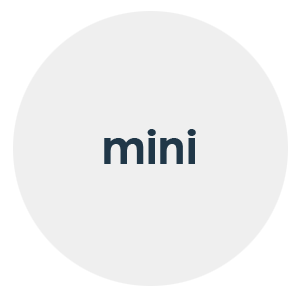
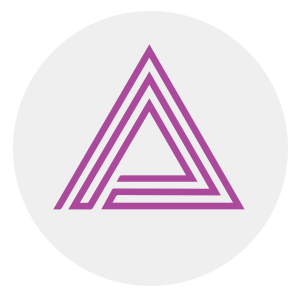
first commit personal website andrealmar.com

Changed region(s): [[0.18, 0.15, 0.81, 0.72]]

diff --git a/index.html b/index.html
@@ -2,9 +2,9 @@
     <html lang="en">
     <head>
     <meta charset="utf-8">
-    <title>SINGLE PAGE | Flat Design Mini Portfolio</title>
+    <title>André Almar | Personal Website</title>
     <meta name="viewport" content="width=device-width, initial-scale=1.0">
-    <meta name="description" content="Flat Design Mini Portfolio">
+    <meta name="description" content="André Almar | Personal Website">
     <meta name="keywords" content="responsive, bootstrap, flat design, flat ui, portfolio">
     <meta name="author" content="Dzyngiri">
     <meta name="description" content="This is a responsive flat design mini portfolio for creative folks who want to showcase their work online.">
@@ -39,11 +39,11 @@
     <body>
     <div class="navbar navbar-fixed-top">
       <div class="navbar-inner">
-        <div class="container"> <a class="btn btn-navbar" data-toggle="collapse" data-target=".nav-collapse"> <span class="icon-bar"></span> <span class="icon-bar"></span> <span class="icon-bar"></span> </a> <a class="brand" href="#profile"><img src="img/user.jpg"/></a>
+        <div class="container"> <a class="btn btn-navbar" data-toggle="collapse" data-target=".nav-collapse"> <span class="icon-bar"></span> <span class="icon-bar"></span> <span class="icon-bar"></span> </a> <a class="brand" href="#profile"><img src="img/user.png"/></a>
           <ul class="nav nav-collapse pull-right">
             <li><a href="#profile"><i class="icon-user"></i> Profile</a></li>
             <li><a href="#skills"><i class="icon-trophy"></i> Skills</a></li>
-            <li><a href="#work"><i class="icon-picture"></i> Work</a></li>
+            <li><a href="http://blog.andrealmar.com"><i class="icon-picture"></i> Blog</a></li>
             <li><a href="#resume"><i class="icon-doc-text"></i> Resume</a></li>
           </ul>
           <!-- Everything you want hidden at 940px or less, place within here -->
@@ -58,18 +58,17 @@
       <div id="profile" class="container">
         <div class="span3"> <img src="img/mini.png"> </div>
         <div class="span5">
-          <h1>Juan Dela Cruz</h1>
-          <h3>Web &amp; Graphics Designer</h3>
-          <p> Hello I am Juan Dela Cruz Web and Graphics Designer from Philipines. If yopu have something to be done just call my name and I will be there. :-) </p>
-          <a href="#" class="hire-me"><i class="icon-paper-plane"></i> Hire Me </a>
+          <h1>André Almeida Araújo</h1>
+          <h3>Software &amp; Systems Engineer</h3>
+          <p> Hello I'm Andre Almar from Brazil. If you have something to be done related to IT just call my name and I will be there. :-P </p>
+          <a href="mailto:andrealmar@me.com" class="hire-me"><i class="icon-paper-plane"></i> Hire Me </a>
           <div class="row social">
             <ul class="social-icons">
-              <li><a href="#" target="_blank"><img src="img/fb.png" alt="facebook"></a></li>
-              <li><a href="#" target="_blank"><img src="img/tw.png" alt="twitter"></a></li>
-              <li><a href="#" target="_blank"><img src="img/go.png" alt="google plus"></a></li>
-              <li><a href="#" target="_blank"><img src="img/pin.png" alt="pinterest"></a></li>
-              <li><a href="#" target="_blank"><img src="img/st.png" alt="stumbleupon"></a></li>
-              <li><a href="#" target="_blank"><img src="img/dr.png" alt="dribbble"></a></li>
+              <li><a href="http://www.facebook.com/andrealmar" target="_blank"><img src="img/fb.png" alt="facebook"></a></li>
+              <li><a href="http://www.twitter.com/andre_almar" target="_blank"><img src="img/tw.png" alt="twitter"></a></li>
+              <li><a href="https://plus.google.com/+AndreAraujo04" target="_blank"><img src="img/go.png" alt="google plus"></a></li>
+              <li><a href="https://github.com/andrealmar" target="_blank"><img src="img/github.png" alt="github"></a></li>
+              <li><a href="https://www.linkedin.com/in/andrealmar" target="_blank"><img src="img/linkedin.png" alt="linkedin"></a></li>
             </ul>
           </div>
         </div>
@@ -82,23 +81,34 @@
         <h2>My Skills</h2>
         <div class="row">
           <div class="span3">
-            <div class="ps">
-              <h3>Ps</h3>
+            <div class="html">
+              <h3>OFMW</h3>
             </div>
           </div>
           <div class="span5">
-            <h3>Photoshop <span>90%</span></h3>
+            <h3>Oracle FUSION Middleware </h3>
+            <div class="expand-bg"> <span class="expand html2"> &nbsp; </span> </div>
+          </div>
+        </div>
+        <div class="row">
+          <div class="span3">
+            <div class="ps">
+              <h3>J</h3>
+            </div>
+          </div>
+          <div class="span5">
+            <h3>JAVA </h3>
             <div class="expand-bg"> <span class="expand ps2"> &nbsp; </span> </div>
           </div>
         </div>
         <div class="row">
           <div class="span3">
             <div class="ai">
-              <h3>Ai</h3>
+              <h3>LNX</h3>
             </div>
           </div>
           <div class="span5">
-            <h3>Illustrator <span>80%</span></h3>
+            <h3>LINUX </h3>
             <div class="expand-bg"> <span class="expand ai2"> &nbsp; </span> </div>
           </div>
         </div>
@@ -109,24 +119,68 @@
             </div>
           </div>
           <div class="span5">
-            <h3>HTML5 <span>75%</span></h3>
+            <h3>HTML5 </h3>
             <div class="expand-bg"> <span class="expand html2"> &nbsp; </span> </div>
           </div>
         </div>
         <div class="row">
           <div class="span3">
             <div class="css">
-              <h3>CSS3</h3>
+              <h3>CSS</h3>
             </div>
           </div>
           <div class="span5">
-            <h3>CSS3 <span>85%</span></h3>
+            <h3>CSS </h3>
+            <div class="expand-bg"> <span class="expand css2"> &nbsp; </span> </div>
+          </div>
+        </div>
+        <div class="row">
+          <div class="span3">
+            <div class="ps">
+              <h3>JS</h3>
+            </div>
+          </div>
+          <div class="span5">
+            <h3>JAVASCRIPT </h3>
+            <div class="expand-bg"> <span class="expand ps2"> &nbsp; </span> </div>
+          </div>
+        </div>]
+        <div class="row">
+          <div class="span3">
+            <div class="ai">
+              <h3>SQL</h3>
+            </div>
+          </div>
+          <div class="span5">
+            <h3>SQL </h3>
+            <div class="expand-bg"> <span class="expand ai2"> &nbsp; </span> </div>
+          </div>
+        </div>
+        <div class="row">
+          <div class="span3">
+            <div class="html">
+              <h3>APP</h3>
+            </div>
+          </div>
+          <div class="span5">
+            <h3>APPLICATION SERVERS </h3>
+            <div class="expand-bg"> <span class="expand html2"> &nbsp; </span> </div>
+          </div>
+        </div>
+        <div class="row">
+          <div class="span3">
+            <div class="css">
+              <h3>DB</h3>
+            </div>
+          </div>
+          <div class="span5">
+            <h3>DATABASES </h3>
             <div class="expand-bg"> <span class="expand css2"> &nbsp; </span> </div>
           </div>
         </div>
       </div>
       <!--END: Skills container-->
-      <!-- Works container -->
+      <!-- Works container 
       <div id="work" class="container">
         <h2>My Work</h2>
         <ul class="work-images">
@@ -151,7 +205,6 @@
             <div><a class="fancybox-thumb" rel="fancybox-thumb" href="img/6.jpg"><img src="img/6-thumb.jpg" /></a></div>
           </li>
         </ul>
-        <!--Dummy images by The Fox And King :: http://dribbble.com/snootyfox-->
       </div>
       <!--END: Work container-->
       <!-- Resume container -->
@@ -165,21 +218,20 @@
       <!--END: Resume container-->
       <!-- Social Icons -->
       <div class="row social">
-        <ul class="social-icons">
-          <li><a href="#" target="_blank"><img src="img/fb.png" alt="facebook"></a></li>
-          <li><a href="#" target="_blank"><img src="img/tw.png" alt="twitter"></a></li>
-          <li><a href="#" target="_blank"><img src="img/go.png" alt="google plus"></a></li>
-          <li><a href="#" target="_blank"><img src="img/pin.png" alt="pinterest"></a></li>
-          <li><a href="#" target="_blank"><img src="img/st.png" alt="stumbleupon"></a></li>
-          <li><a href="#" target="_blank"><img src="img/dr.png" alt="dribbble"></a></li>
-        </ul>
+           <ul class="social-icons">
+              <li><a href="http://www.facebook.com/andrealmar" target="_blank"><img src="img/fb.png" alt="facebook"></a></li>
+              <li><a href="http://www.twitter.com/andre_almar" target="_blank"><img src="img/tw.png" alt="twitter"></a></li>
+              <li><a href="https://plus.google.com/+AndreAraujo04" target="_blank"><img src="img/go.png" alt="google plus"></a></li>
+              <li><a href="https://github.com/andrealmar" target="_blank"><img src="img/github.png" alt="github"></a></li>
+              <li><a href="https://www.linkedin.com/in/andrealmar" target="_blank"><img src="img/linkedin.png" alt="linkedin"></a></li>
+            </ul>
       </div>
       <!-- END: Social Icons -->
     </div>
     <!-- Footer -->
     <div class="footer">
       <div class="container">
-        <p class="pull-left"><a href="http://dzyngiri.com">www.dzyngiri.com</a></p>
+        <p class="pull-left"><a href="http://dzyngiri.com">Design by dzyngiri</a></p>
         <p class="pull-right"><a href="##myModal" role="button" data-toggle="modal"> <i class="icon-mail"></i> CONTACT</a></p>
       </div>
     </div>
@@ -192,7 +244,7 @@
       </div>
       <div class="modal-body">
         <form>
-          <input type="text" placeholder="Yopur Name">
+          <input type="text" placeholder="Your Name">
           <input type="text" placeholder="Your Email">
           <input type="text" placeholder="Website (Optional)">
           <textarea rows="3" style="width:80%"></textarea>

diff --git a/css/style-single-page.css b/css/style-single-page.css
@@ -142,25 +142,25 @@ ul.social-icons li a:hover {
 	float:right;
 }
 .ps2 {
-	width:90%;
+	width:98%;
 	background:#30a5dc;
 	-moz-animation:html5 2s ease-out;
 	-webkit-animation:html5 2s ease-out;
 }
 .ai2 {
-	width:80%;
+	width:98%;
 	background:#ee742b;
 	-moz-animation:css3 2s ease-out;
 	-webkit-animation:css3 2s ease-out;
 }
 .html2 {
-	width:75%;
+	width:98%;
 	background:#f04949;
 	-moz-animation:jquery 2s ease-out;
 	-webkit-animation:jquery 2s ease-out;
 }
 .css2 {
-	width:85%;
+	width:98%;
 	background:#39d084;
 	-moz-animation:photoshop 2s ease-out;
 	-webkit-animation:photoshop 2s ease-out;

diff --git a/css/bootstrap.css b/css/bootstrap.css
@@ -2838,7 +2838,7 @@ button.btn.btn-mini, input[type="submit"].btn.btn-mini {
 	min-height: 40px;
 	padding-left: 20px;
 	padding-right: 20px;
-	background-color: #f04949;
+	background-color: #993399;
  *zoom: 1;
 }
 .navbar-inner:before, .navbar-inner:after {
